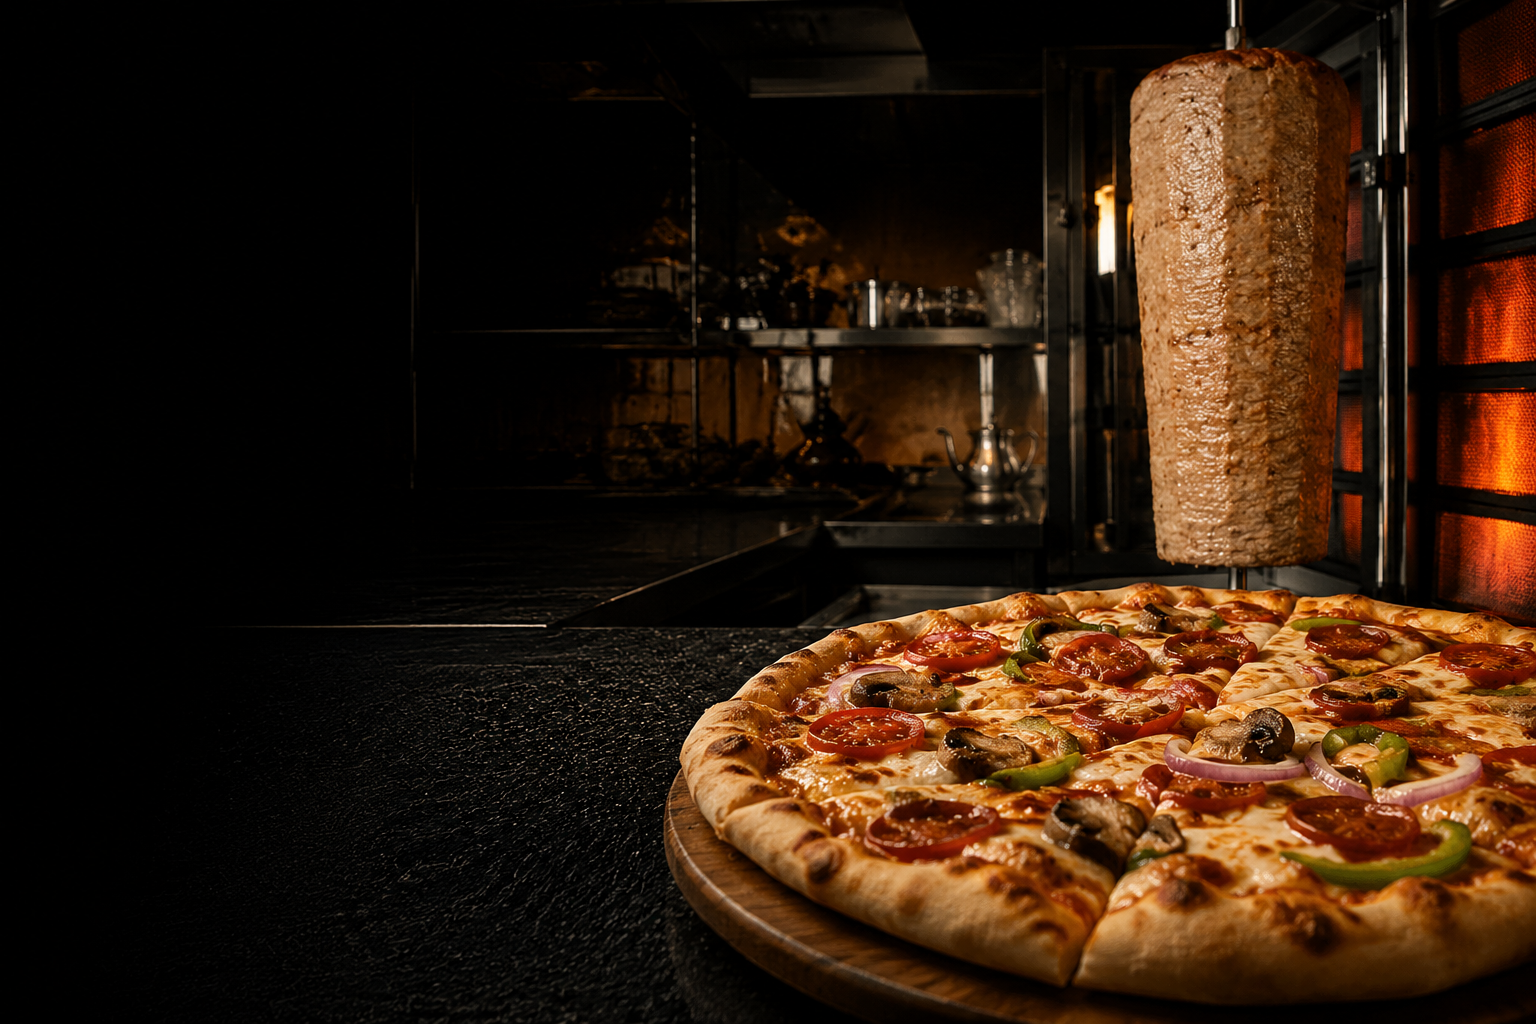
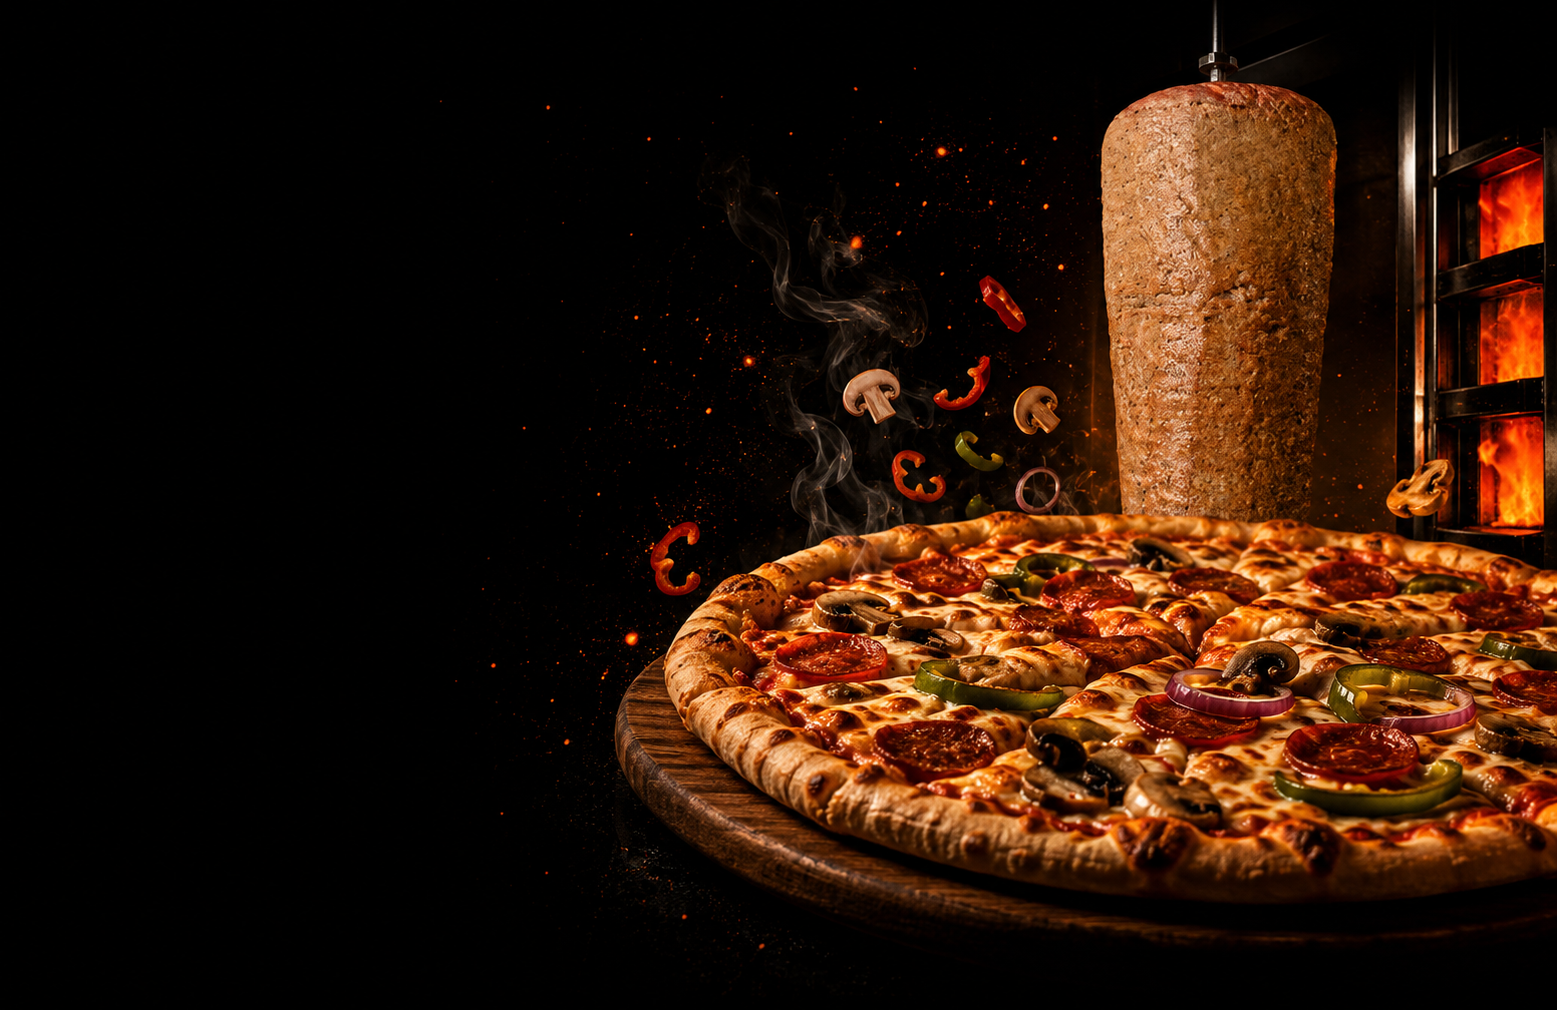
landing(acomb-pizza-kebab): new hero image
Owner supplied a replacement hero shot (uploaded as heroo-neww.png, renamed to
hero.png so nothing else has to change; the previous shot is kept as
hero-old-v1.png rather than deleted).

The new asset is a better fit for this layout: its left 38% measures a flat
brightness of ZERO — literally black — where the old one bottomed out around
1-10 and needed a heavy two-layer scrim to hold the copy. That scrim is now
mostly redundant and was dulling the food for nothing, so it drops to a light
right-side falloff that is fully clear by 40%, ahead of where the pizza starts
at 42%.

Checked: all hero copy sits on black, the badge row's last label clears the
pizza board by ~17 CSS px, mobile still stacks the whole image as a banner with
the text below it. No page errors, all fonts resolved, no horizontal overflow.

Claude-Session: https://claude.ai/code/session_01AkuDUn48ty3rdJUAqG8WdC

diff --git a/data/shops/acomb-pizza-kebab/index.html b/data/shops/acomb-pizza-kebab/index.html
@@ -215,11 +215,15 @@
        costs no contrast (every glyph in that band already sits at 8.4:1 or
        better on near-black) and it stays clear of the pizza, which the
        reference keeps bright. */
+    /* The v2 hero asset needs almost none of this: its left 38% measures a flat
+       brightness of 0 (literal black), so the heavy scrim the previous shot
+       needed would only dull the food for nothing. What is left is a light
+       right-side falloff that keeps the copy band absolutely flat where the
+       badge row runs long, and it is fully clear (alpha 0) by 40% — before the
+       pizza starts at 42%. */
     .hero-media::after{
       content:"";position:absolute;inset:0;
-      background:
-        radial-gradient(96% 52% at 0% 100%, rgba(4,4,4,.72) 0%, rgba(4,4,4,.40) 58%, rgba(4,4,4,0) 100%),
-        linear-gradient(90deg,rgba(4,4,4,.74) 0%,rgba(4,4,4,.44) 24%,rgba(4,4,4,0) 54%);
+      background:linear-gradient(90deg,rgba(4,4,4,.34) 0%,rgba(4,4,4,.18) 22%,rgba(4,4,4,0) 40%);
     }
     /* width:100% or the flex hero shrink-wraps the container and centres it. */
     /* The copy is centred in the band, so the padding difference (top minus
